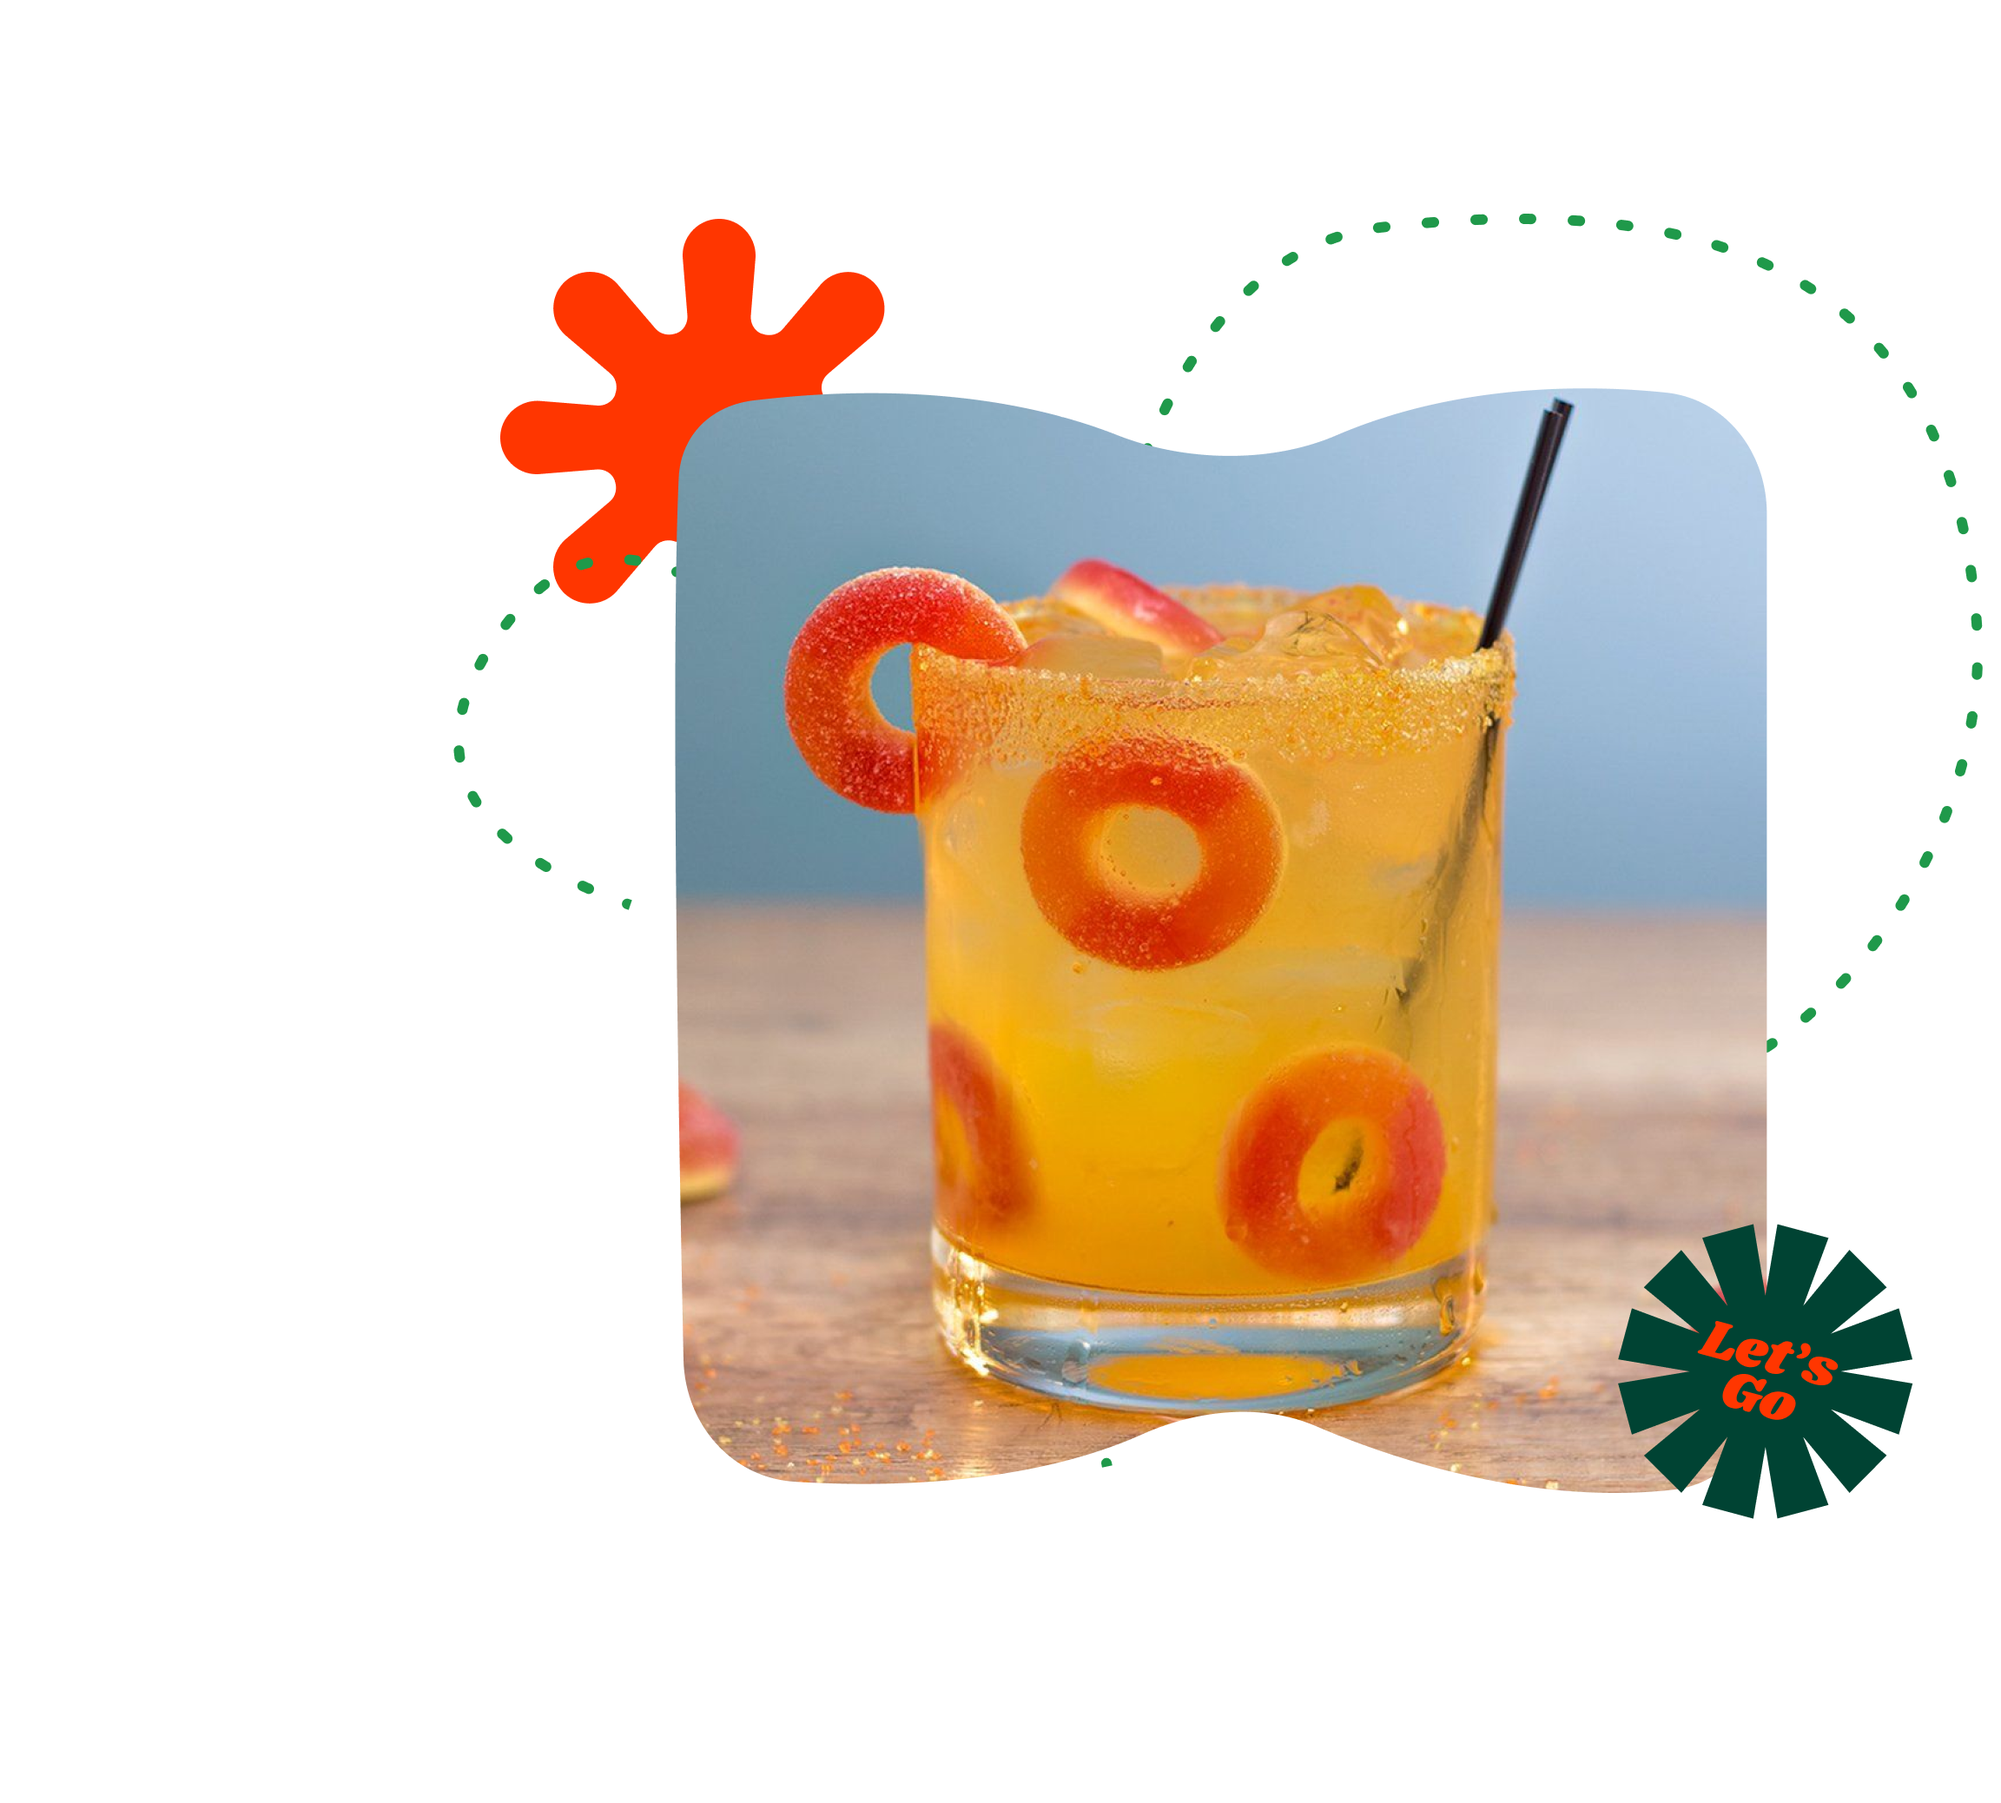
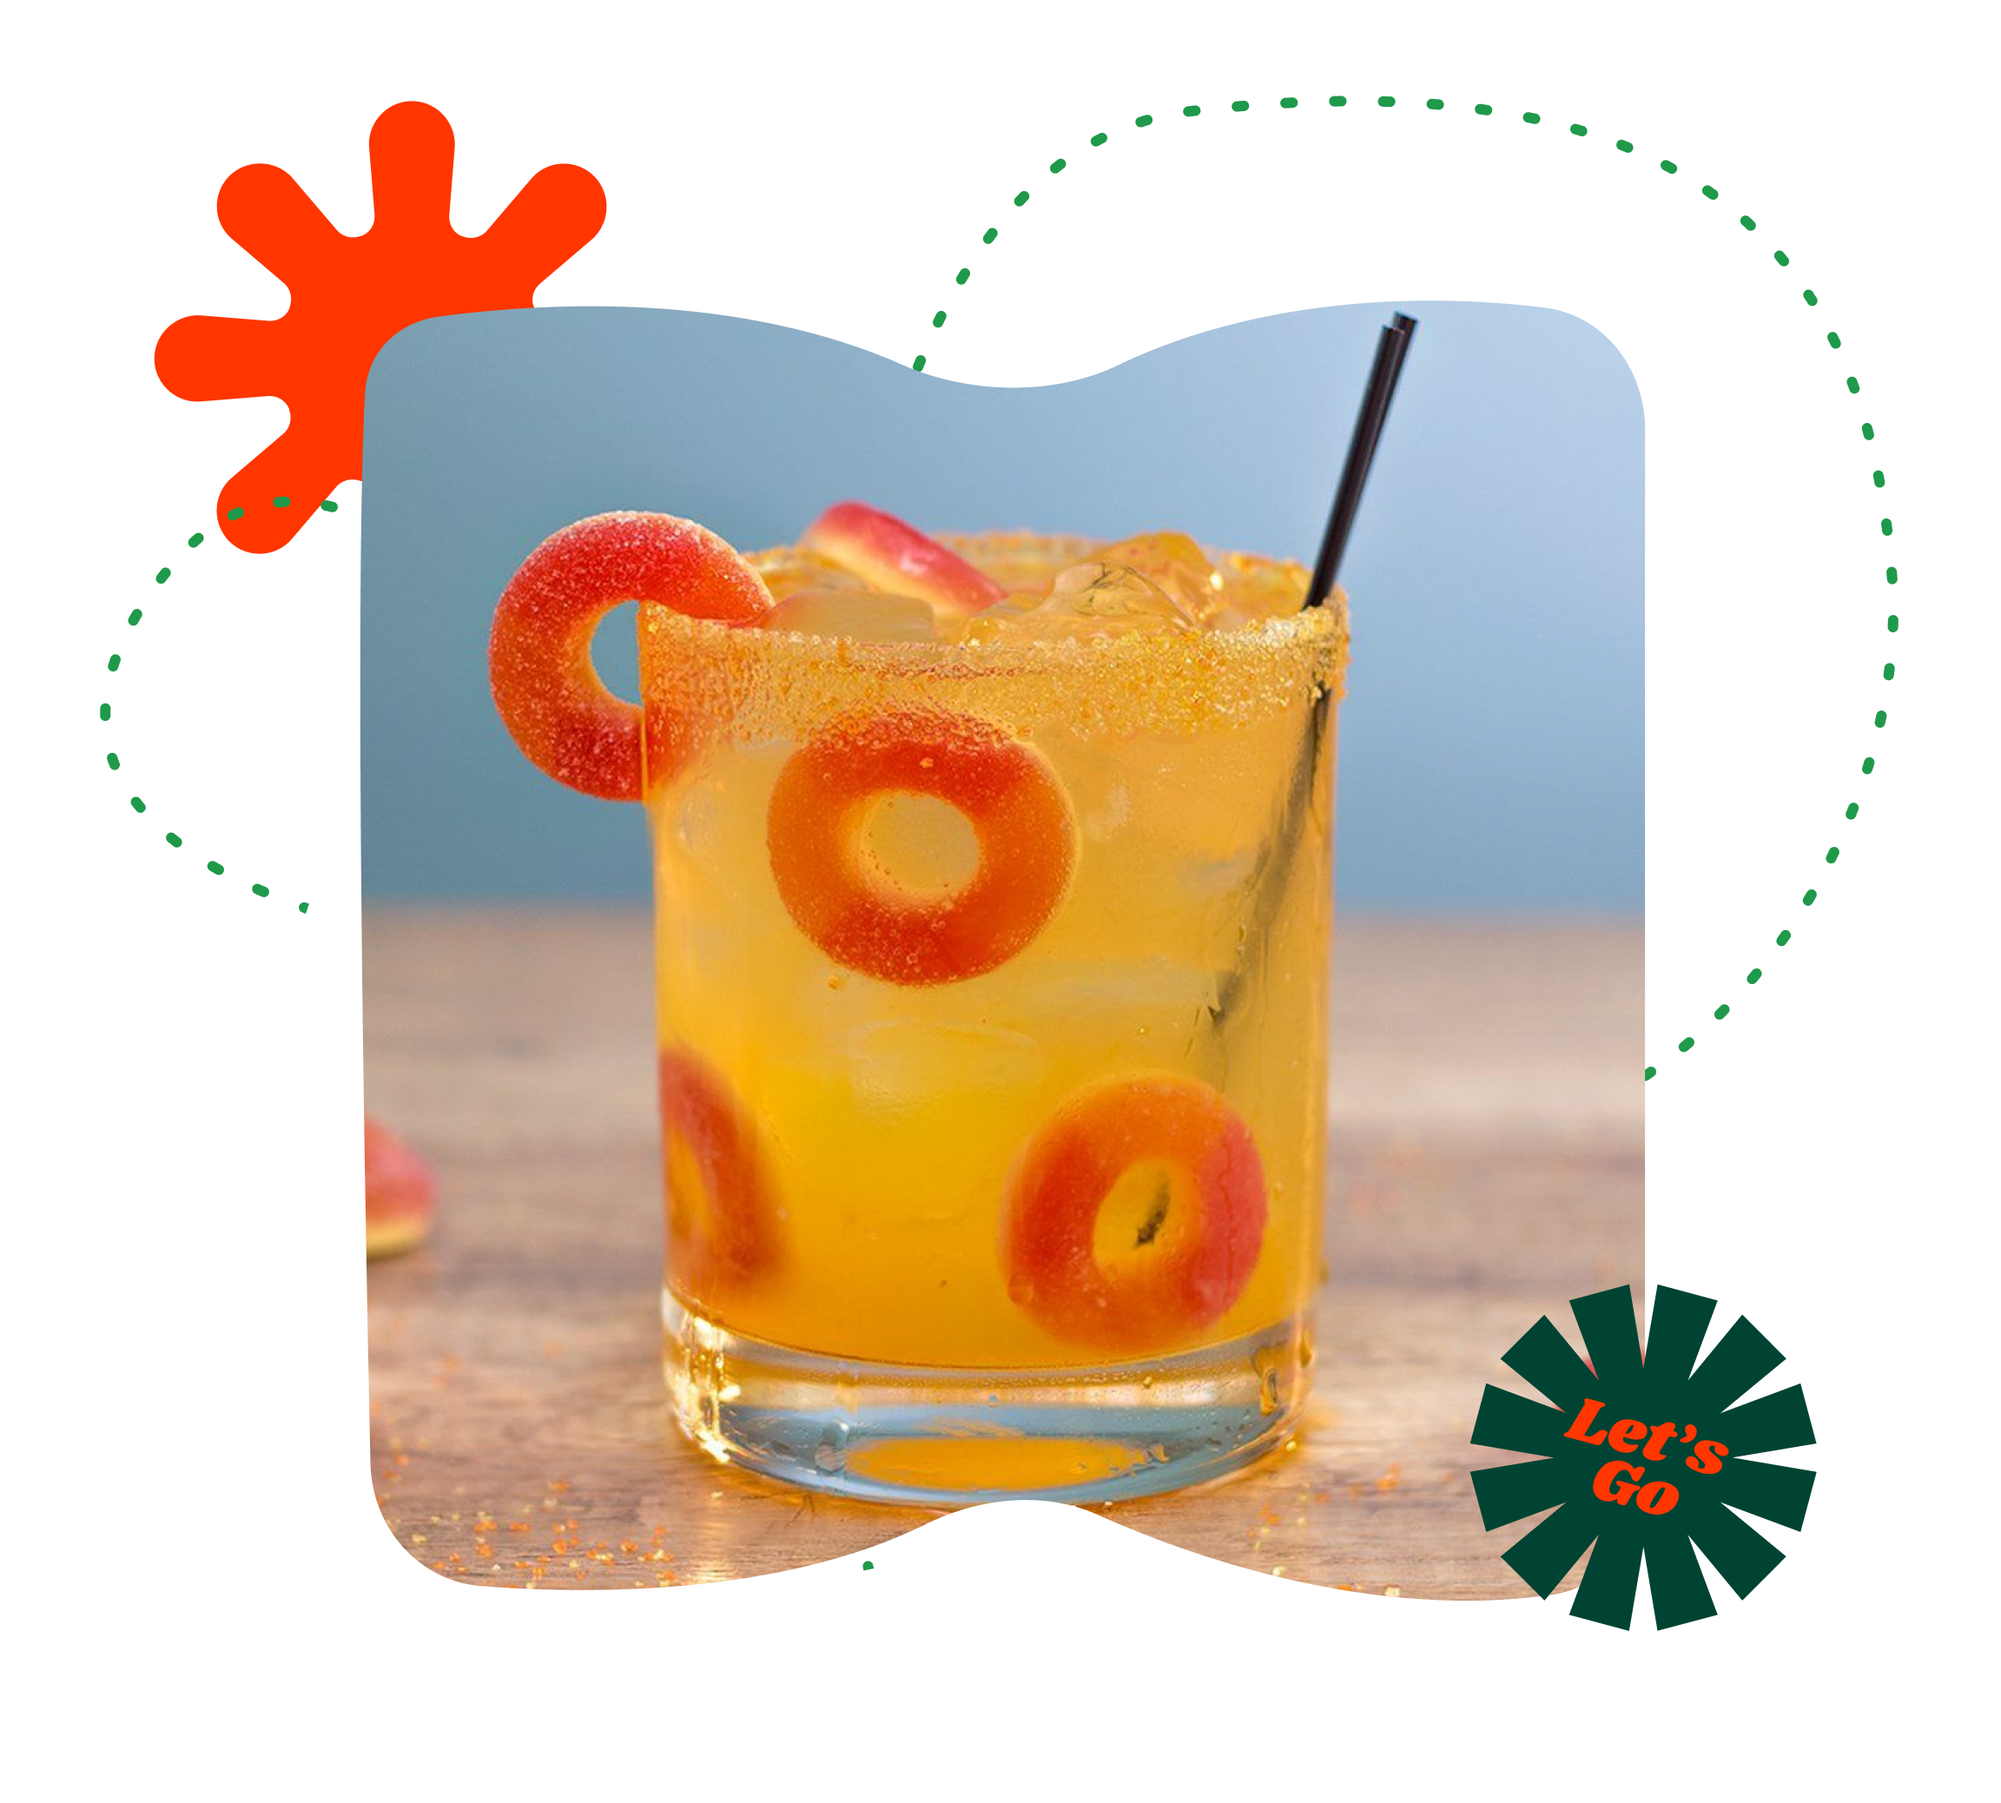
cambios imagenes

diff --git a/assets/css/style.css b/assets/css/style.css
@@ -999,7 +999,11 @@ line-height: 127%; /* 26.67px */
   background-color: #F7941D;
 }
 
-
+.tragom img{
+  padding-top: 50px;
+  padding-left: 70px;
+  padding-bottom: 50px;
+}
 .tragom h2 {
   font-size: 24px;
   font-weight: 700;
